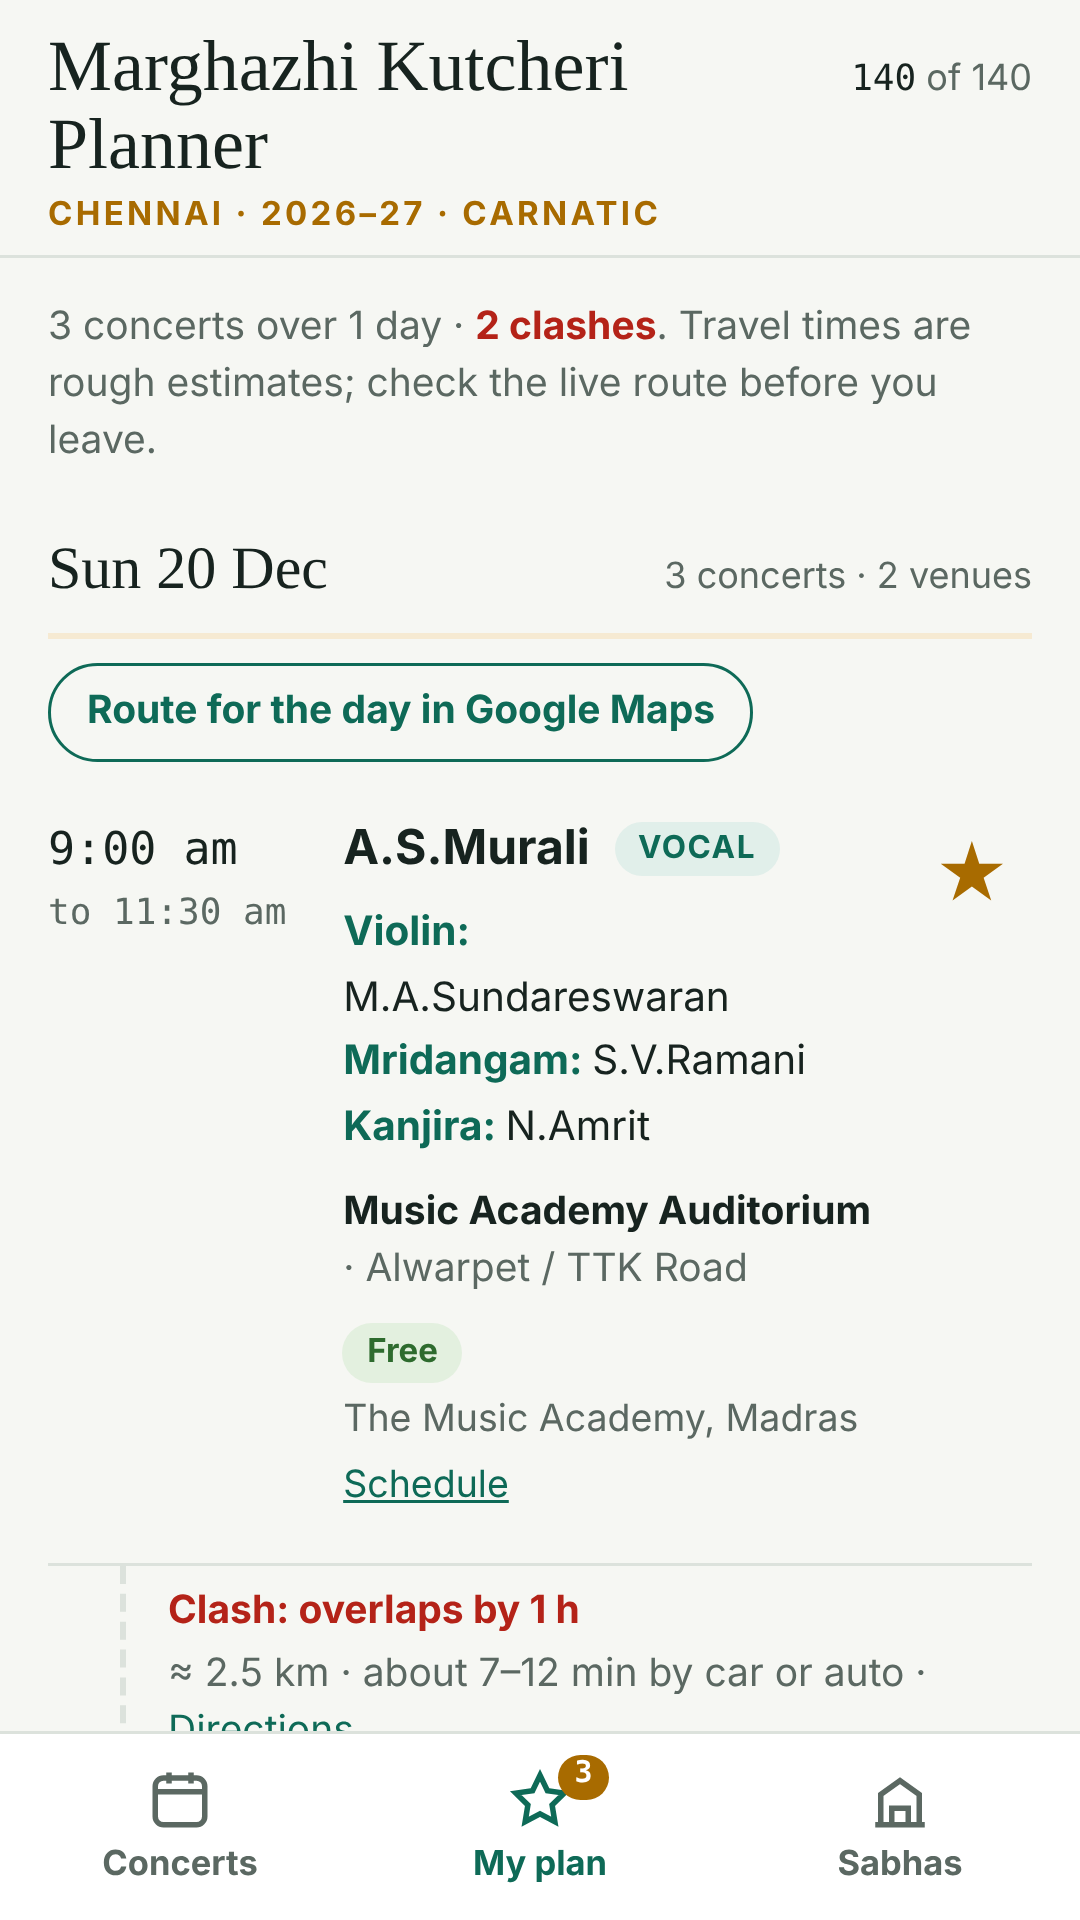
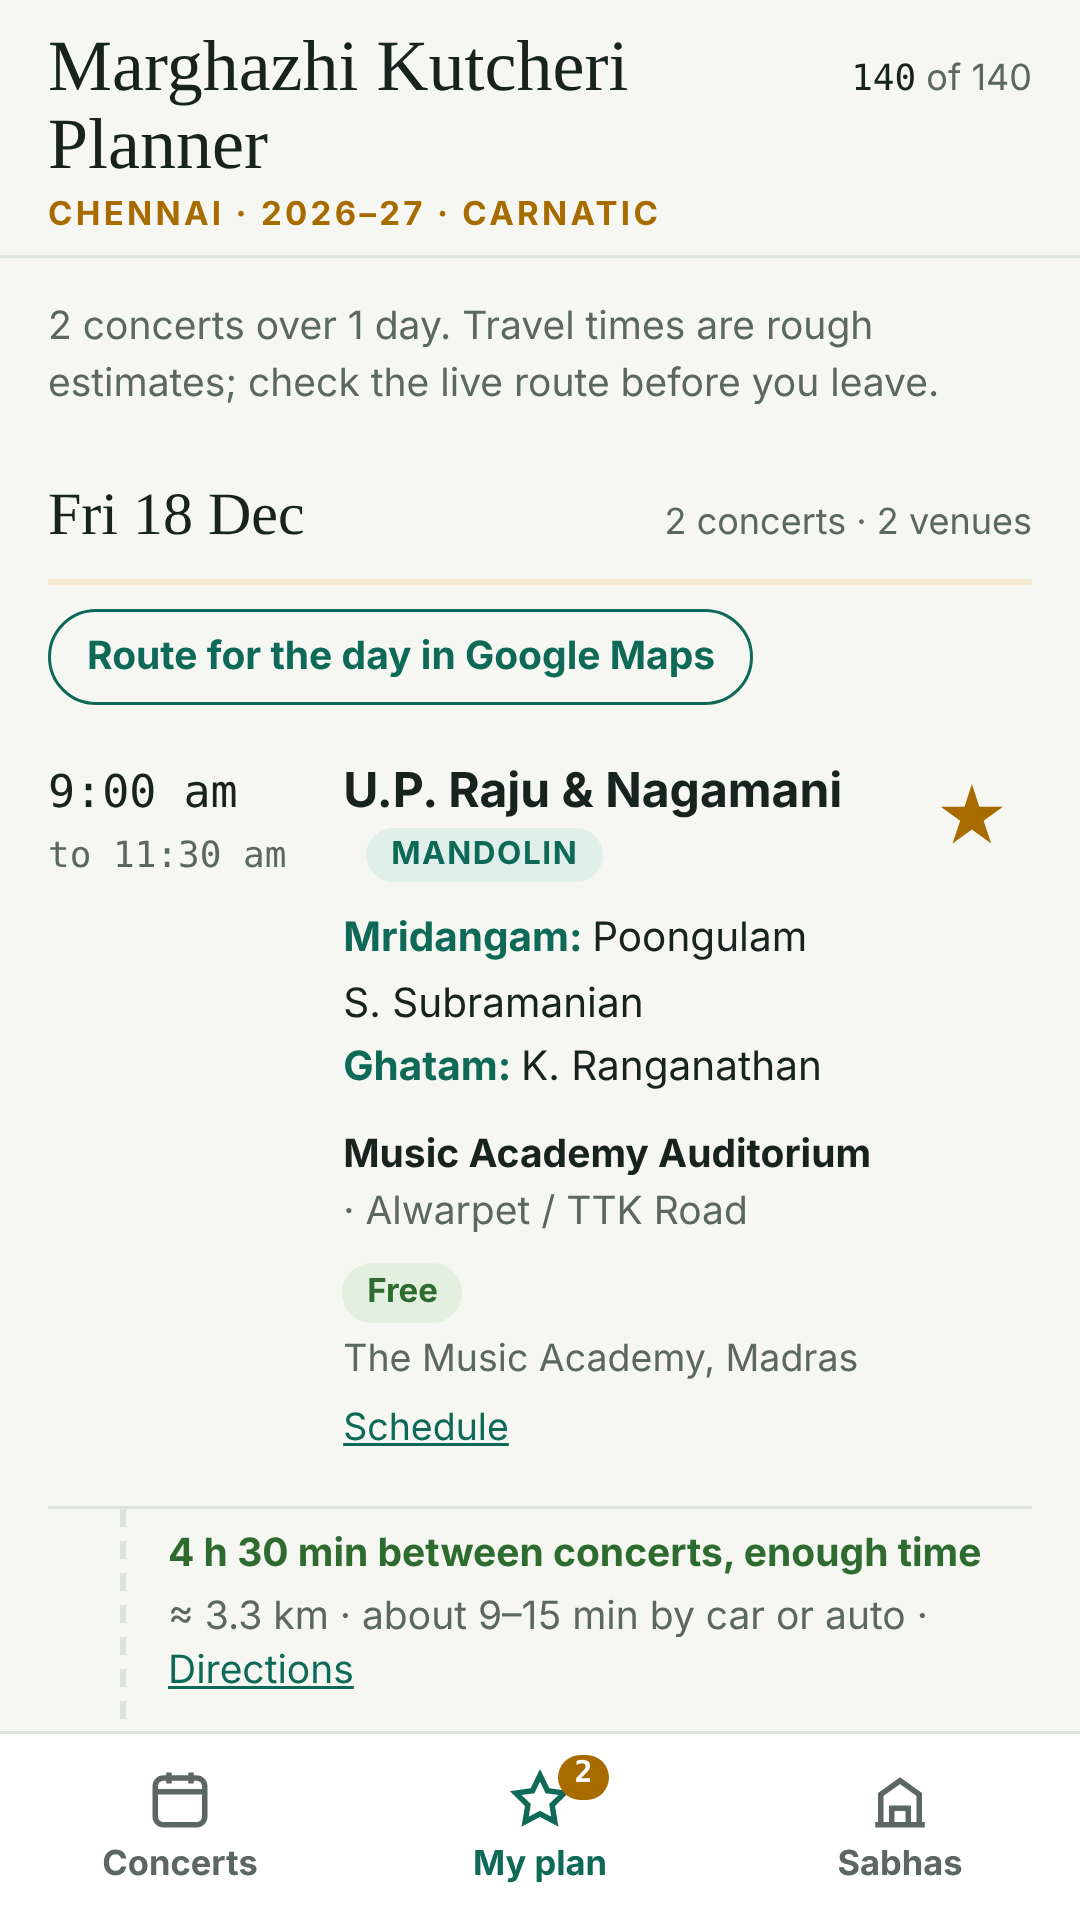
Build: check the built app's contents; Play listing text
Claude-Session: https://claude.ai/code/session_01TwTK5Zc8sfBX1c9ikCagQL

Changed region(s): [[0.0306, 0.1562, 0.9472, 0.9062], [0.0917, 0.7812, 0.1222, 0.875], [0.8861, 0.4062, 0.9167, 0.4688]]

diff --git a/store/listing.md b/store/listing.md
@@ -1,0 +1,59 @@
+# Google Play listing — Marghazhi Kutcheri Planner
+
+Copy these into Play Console → your app → **Grow users → Store presence → Main store listing**.
+
+**App name** (max 30): `Marghazhi Kutcheri Planner`
+
+**Short description** (max 80):
+`Find and plan Carnatic concerts in Chennai's 2026–27 Margazhi music season.`
+
+**Full description** (max 4000):
+```
+Plan your Margazhi (December) music season in Chennai.
+
+Marghazhi Kutcheri Planner brings together the Carnatic music concerts that sabhas and artists have published for the 2026–27 season, so you can find what to hear and plan your day around it.
+
+FIND CONCERTS
+• Search by artist — including accompanists on violin, mridangam, ghatam, kanjira and more
+• Filter by date (pick one or several days on the calendar), concert type (vocal, violin, flute, veena, nagaswaram…), area and sabha
+• See timings, venue, entry (free or ticketed) and the full line-up for each kutcheri
+
+PLAN YOUR DAY
+• Star concerts to add them to My plan
+• See clashes and tight gaps between concerts on the same day
+• Get rough travel times between venues and open the whole day's route in Google Maps
+
+SABHAS
+• Browse 65 sabhas and organisers, see which have published their 2026–27 schedule, and jump to their concerts or website
+
+ALWAYS UP TO DATE, WORKS OFFLINE
+• The list is refreshed every morning from organisers' published schedules and artists' own websites
+• The latest list is saved on your phone, so it works without a connection at the venue
+
+No sign-in, no ads, no tracking. Your plan stays on your phone.
+
+Schedules can change — please confirm with the organiser before you travel. This app is an independent listing and is not affiliated with any sabha or artist.
+```
+
+**App category:** Music & Audio (alternative: Events)
+**Tags:** Events, Music
+**Contact email:** your email (required by Play; shown publicly)
+**Website:** https://kutcheri-dec.netlify.app
+**Privacy policy URL:** https://github.com/sunithi2000-lab/kutcheri-android/blob/main/PRIVACY.md
+
+## Graphics (files in this folder)
+| Play field | File |
+|---|---|
+| App icon (512 × 512) | `icon-512.png` |
+| Feature graphic (1024 × 500) | `feature-graphic.png` |
+| Phone screenshots (1080 × 1920, 2–8 needed) | `screenshot-1-concerts.png`, `screenshot-2-my-plan.png`, `screenshot-3-sabhas.png`, `screenshot-4-search.png` |
+
+## App content answers (Policy → App content)
+- **Privacy policy:** the URL above
+- **Ads:** No, the app does not contain ads
+- **App access:** All functionality is available without special access
+- **Content rating questionnaire:** category "Reference, News, or Educational"; answer No to violence, sexual content, language, controlled substances, gambling; no user interaction or sharing of user content; no location sharing → expected rating: Everyone / PEGI 3
+- **Target audience:** 18 and over (simplest; avoids the Families policy requirements) — or 13+ if you prefer
+- **News app:** No
+- **Data safety:** "Does your app collect or share any of the required user data types?" → **No**. Encrypted in transit → Yes (HTTPS). Account deletion → not applicable (no accounts)
+- **Government app:** No · **Financial features:** None · **Health:** None
